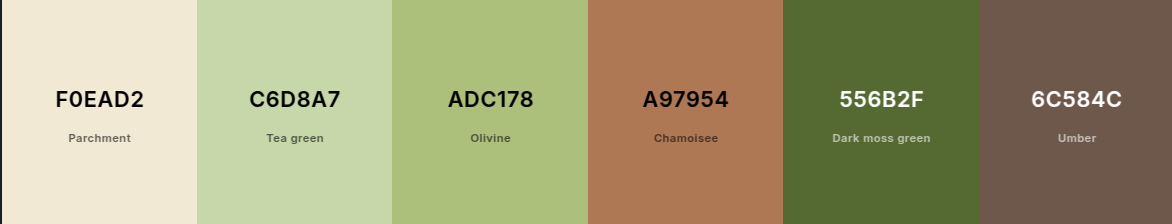
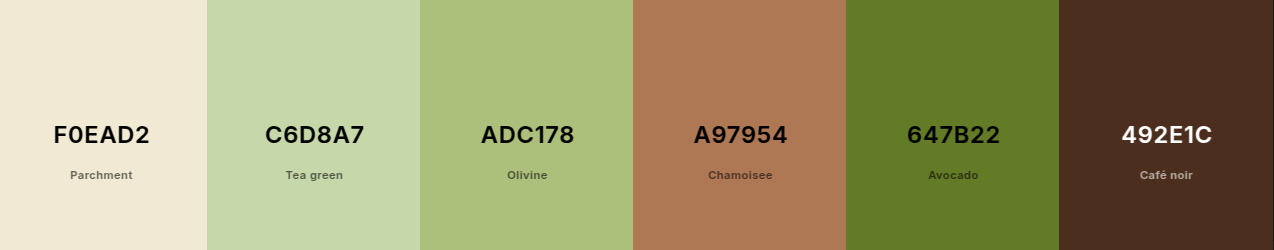
Update README and testing documentation; modify color scheme and improve accessibility references

diff --git a/templates/base.html b/templates/base.html
@@ -1,4 +1,3 @@
-
 {% load static %}
 {% url 'home' as home_url %}
 {% url 'account_login' as login_url %}
@@ -121,11 +120,14 @@
                 </div>
                 <div class="col-12 text-center mt-2">
                     <p class="m-0 text-white">Follow us:
-                        <a href="https://www.facebook.com" class="text-white"><i class="fab fa-facebook-square ms-3"></i></a>
-                        <a href="https://www.twitter.com" class="text-white"><i class="fab fa-twitter-square ms-3"></i></a>
-                        <a href="https://www.instagram.com" class="text-white"><i class="fab fa-instagram-square ms-3"></i></a>
-                        <a href="https://www.youtube.com" class="text-white"><i class="fab fa-youtube-square ms-3"></i></a>
+                        <a href="https://www.facebook.com" target="_blank" rel="noopener noreferrer"
+                        class="text-white" aria-label="Facebook"><i class="fab fa-facebook-square ms-3"></i></a>
+                        <a href="https://www.instagram.com" target="_blank" rel="noopener noreferrer"
+                        class="text-white" aria-label="Instagram"><i class="fab fa-instagram-square ms-3"></i></a>
+                        <a href="https://www.youtube.com" target="_blank" rel="noopener noreferrer"
+                        class="text-white" aria-label="YouTube"><i class="fab fa-youtube-square ms-3"></i></a>
                     </p>
+                    </div>
                 </div>
             </div>
         </div>

diff --git a/patterns/templates/patterns/index.html b/patterns/templates/patterns/index.html
@@ -15,7 +15,8 @@
         <div class="col-12 mb-4 d-flex justify-content-center">
             <form method="get" action="{% url 'home' %}" class="w-50">
                 <div class="input-group">
-                    <input type="text" name="q" class="form-control" placeholder="Search for patterns or authors" value="{{ search_query }}">
+                    <label for="search" class="sr-only">Search for patterns or authors</label>
+                    <input type="text" id="search" name="q" class="form-control" placeholder="Search for patterns or authors" value="{{ search_query }}">
                     <button class="btn btn-primary" type="submit">Search</button>
                 </div>
             </form>
@@ -78,7 +79,7 @@
                 {% endfor %}
             </div>
         </div>
-            </div>
+    </div>
     {% if is_paginated %}
     <nav aria-label="Page navigation">
         <ul class="pagination justify-content-center">

diff --git a/static/css/style.css b/static/css/style.css
@@ -4,7 +4,7 @@
     --dark-green-color: #556B2F; /* Dark Olive Green */
     --accent-color: #C6D8A7; /* Parchment */
     --background-color: #F0EAD2; /* Tea Green */
-    --text-color: #6C584C; /* Umber */
+    --text-color: #492E1C; /* Dark Brown */
 }
 /* Base styles */
 body {
@@ -223,7 +223,7 @@ h2, h3, h4, h5, h6 {
 
 .card-title {
     font-size: 1.5rem;
-    color: var(--secondary-color);
+    color: var(--text-color);
 }
 
 .index-button{

diff --git a/TESTING.md b/TESTING.md
@@ -14,7 +14,7 @@ Return back to the [README.md](README.md) file.
     - [Python Validation](#python-validation)
     - [CSS Validation](#css-validation)
     - [Lighthouse Scores](#lighthouse-scores)
-    - [Accessible Web Helper](#accessible-web-helper)
+    - [Wave Accessibility Evaluation](#wave-accessibility-evaluation)
   - [Unit Testing](#unit-testing)
   - [Manual Testing](#manual-testing)
     - [User Input/Form Validation](#user-inputform-validation)
@@ -95,11 +95,12 @@ Lighthouse testing was carried out in Incognito mode to achieve the best result.
   
 <hr>  
 
-### Accessible Web Helper
+### Wave Accessibility Evaluation
 
-![Accessible Web Helper](docs/testing/access_report.png)  
+[Wave Accessibility Evaluation](https://wave.webaim.org/) was used to check the accessibility of the page.
 
-  
+![Wave Accessibility Evaluation](docs/testing/access_report.png)  
+
 <hr>  
 
 ### Unit Testing

diff --git a/README.md b/README.md
@@ -88,7 +88,7 @@ The color scheme for Stitchin is designed to be visually appealing andu user-fri
 - **Dark Green Color**: #556B2F (Dark Olive Green)
 - **Accent Color:** #C6D8A7 (Tea Green)
 - **Background Color:** #F0EAD2 (Parchment)
-- **Text Color:** #6C584C (Umber)
+- **Text Color:** #492E1C (Dark Brown)
 
 ![Colour Scheme](docs/readme/colour-scheme.png)
 
